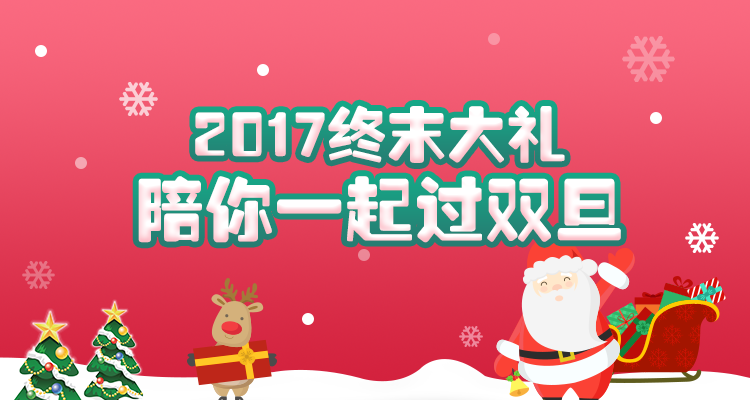
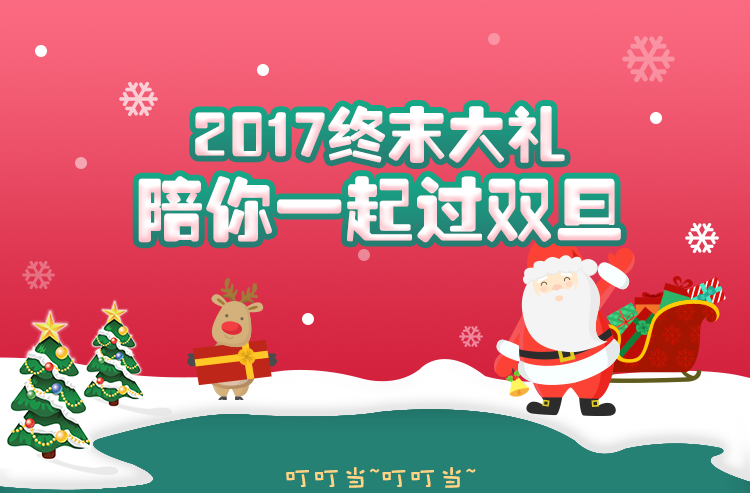
双旦活动

diff --git a/activity_02.html b/activity_02.html
@@ -264,8 +264,9 @@
             NoStart();
         } else if (date >= end) {
             end();
-        }
-
+        } else if (start <= date < end) {
+            success_01();
+        };
 
         // $.ajax({
         //     type: 'POST',
@@ -292,10 +293,14 @@
     //  兑换红包   
     $(".sign_btn2").click(function () {
         // 活动未开始 
-        if (date < start) {
+        if (date < end) {
             NoStart();
-        } else if (date >= end) {
+        } else if (date > end) {
             end();
+        } else if (date = end) {
+           
+            // award_01();
+            success_03();
         };
 
 

diff --git a/css/activity_02.css b/css/activity_02.css
@@ -57,12 +57,12 @@ input {
 }
 
 .part_01 {
-    height: 400px;
-    background: url("../images/activity_02/img_01.png") center no-repeat;
+    height: 493px;
+    background: #268175 url("../images/activity_02/img_01.png") center no-repeat;
 }
 
 .part_02 {
-    height: 341px;
+    height: 243px;
     background: #268175 url("../images/activity_02/img_02.png") center no-repeat;
 }
 
